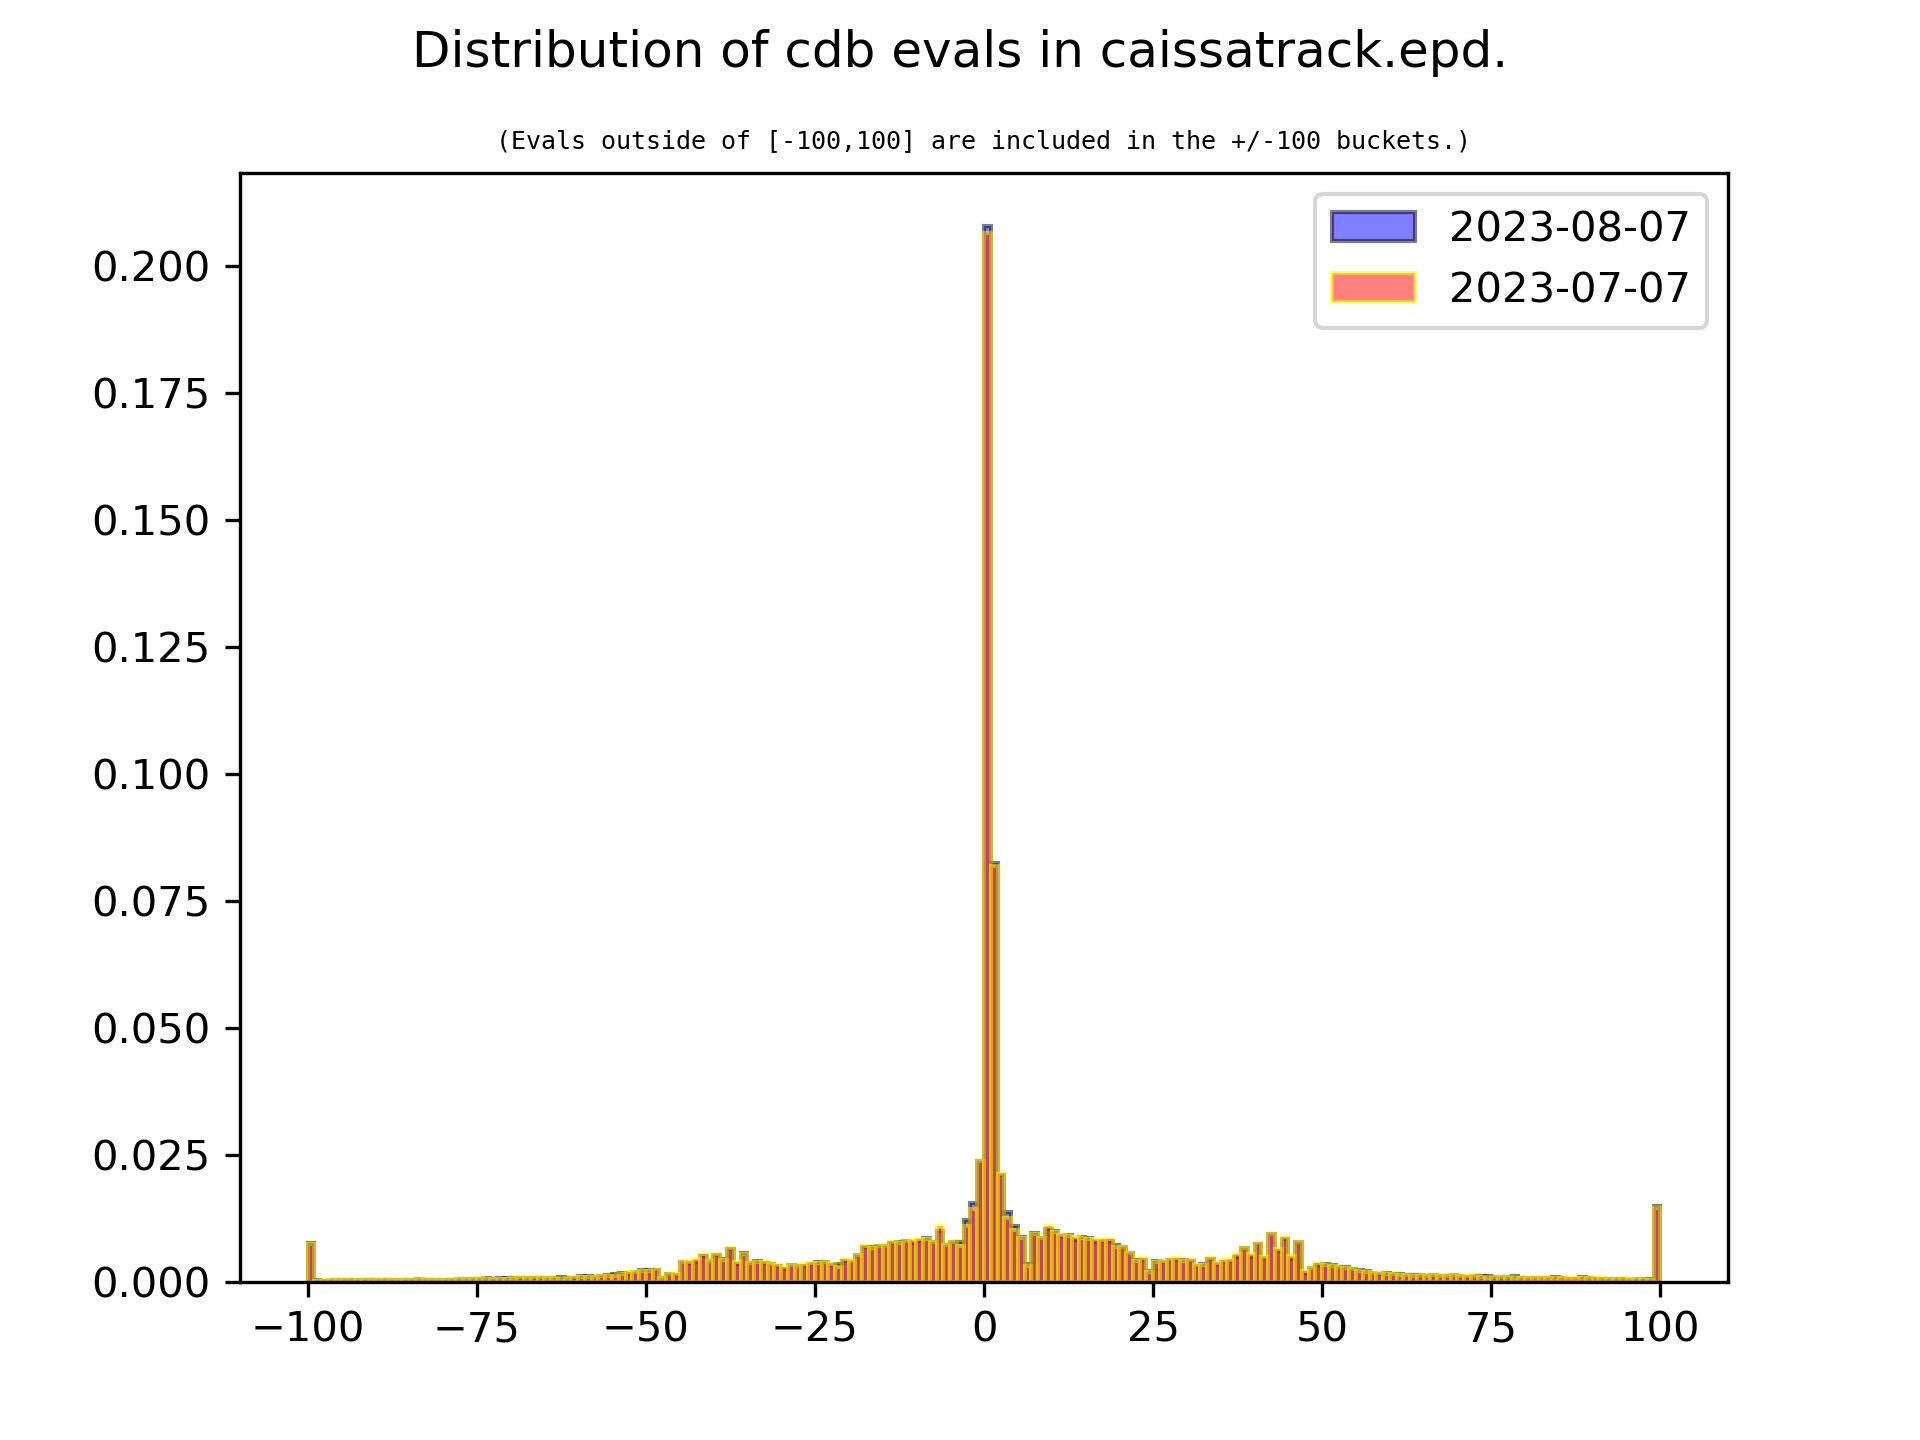
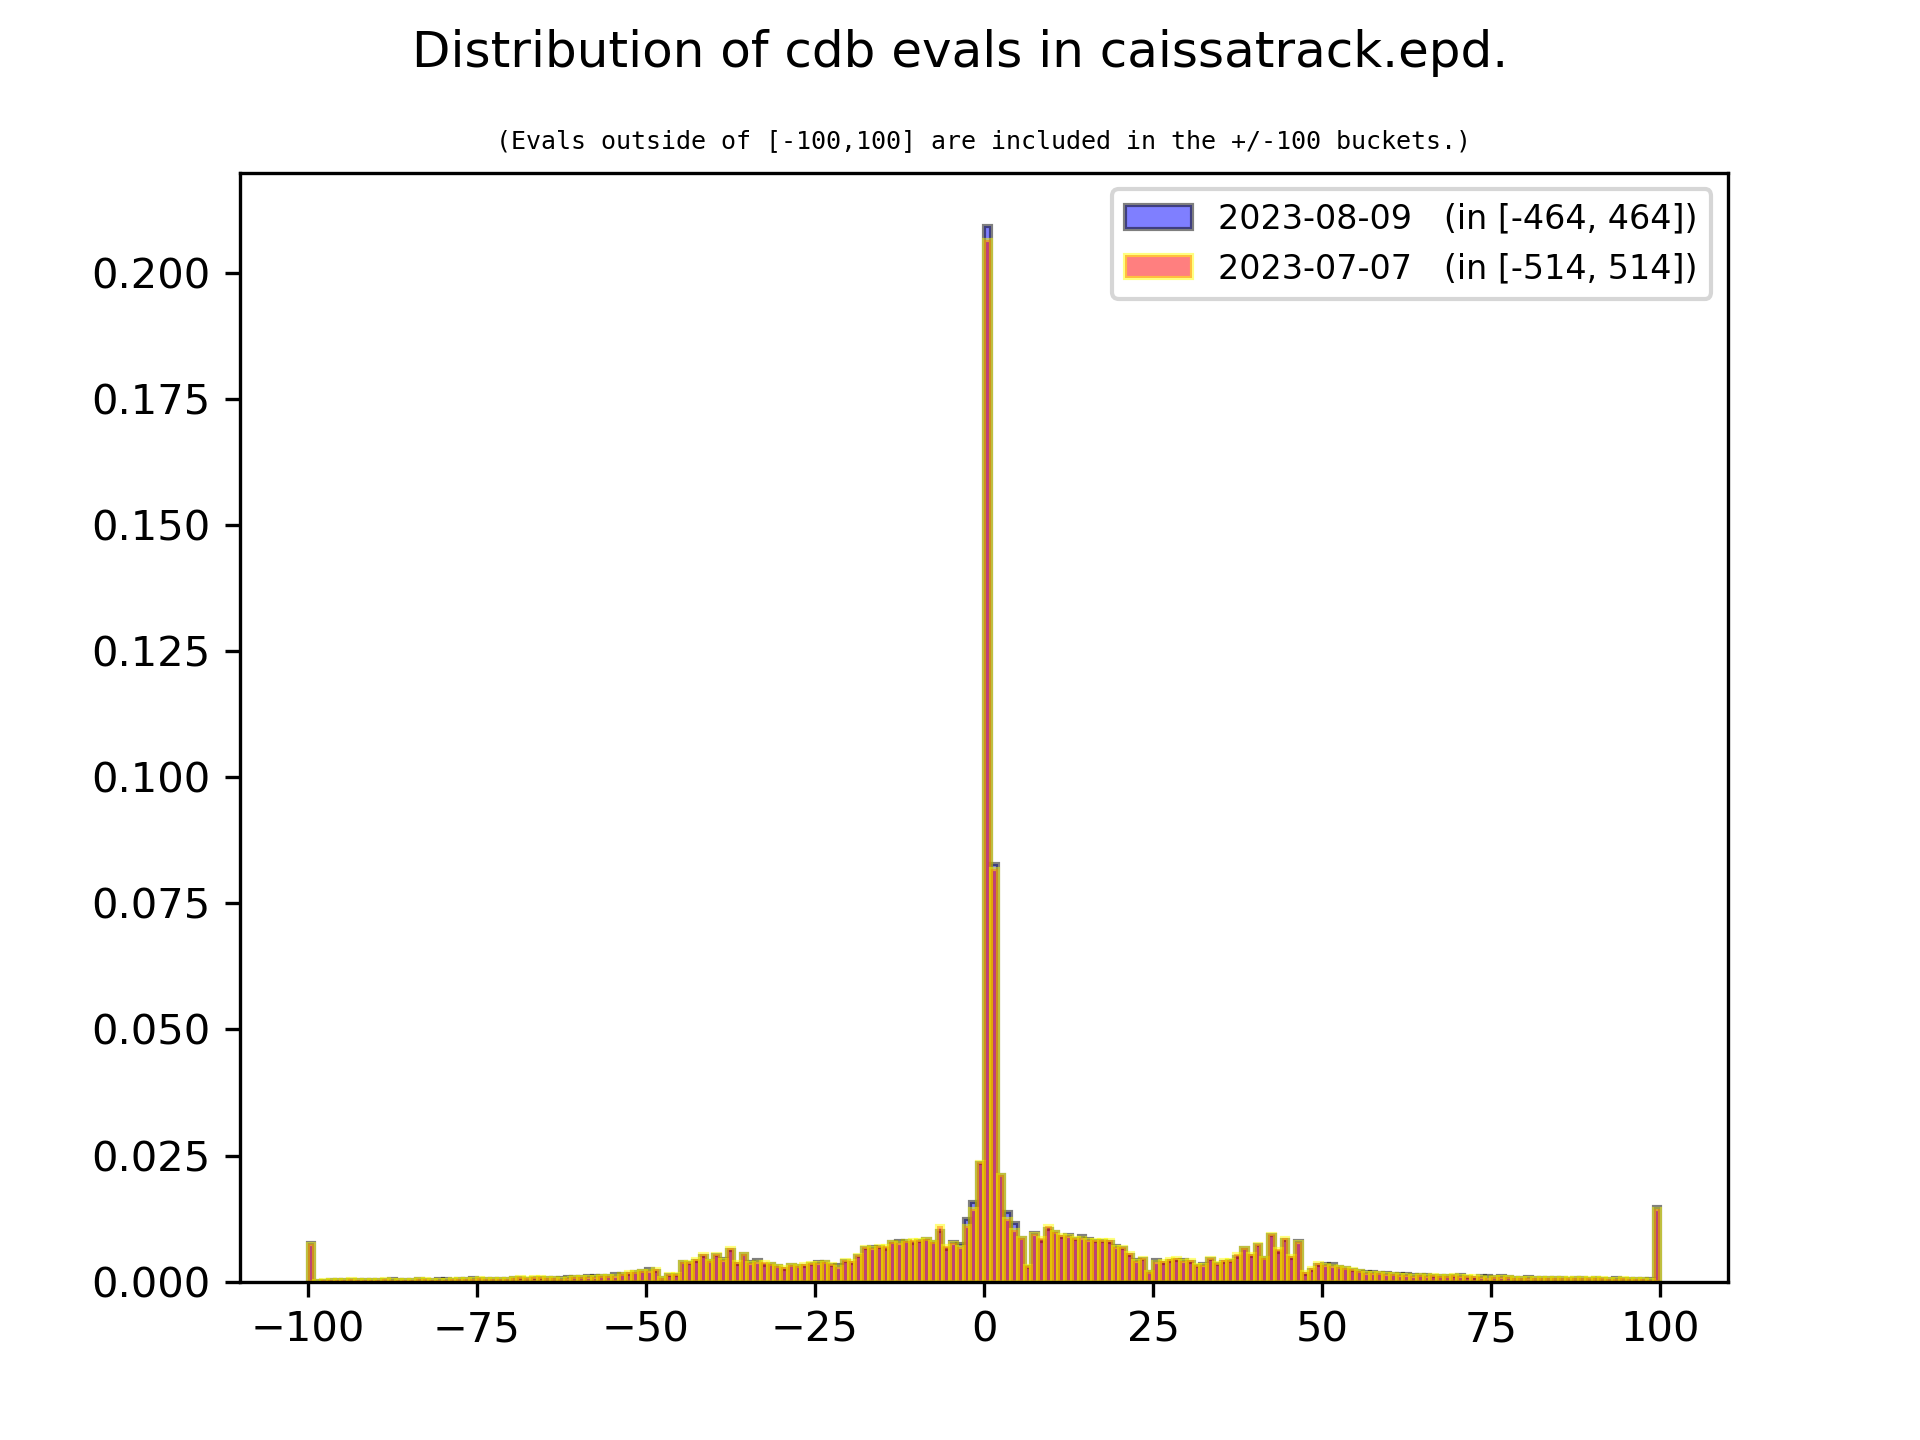
add data ranges to legend

diff --git a/plotdata.py b/plotdata.py
@@ -30,8 +30,12 @@ class matedata:
         dateOld, dateNew = str(self.date[0]), str(self.date[-1])
         if pv:
             dictOld, dictNew = self.depths[0], self.depths[-1]
+            rangeOld = min(dictOld.keys()), max(dictOld.keys())
+            rangeNew = min(dictNew.keys()), max(dictNew.keys())
         else:
             dictOld, dictNew = self.evals[0], self.evals[-1]
+            rangeOld = min(dictOld.keys()), max(dictOld.keys())
+            rangeNew = min(dictNew.keys()), max(dictNew.keys())
             cutOff = 100
             for d in [dictOld, dictNew]:
                 for key in [-cutOff, cutOff]:
@@ -60,7 +64,7 @@ class matedata:
             alpha=0.5,
             color="blue",
             edgecolor="black",
-            label=dateNew,
+            label=dateNew + f"   (in [{rangeNew[0]}, {rangeNew[1]}])",
         )
         listOld = [key for key, val in dictOld.items() for _ in range(val)]
         ax.hist(
@@ -71,9 +75,9 @@ class matedata:
             alpha=0.5,
             color="red",
             edgecolor="yellow",
-            label=dateOld,
+            label=dateOld + f"   (in [{rangeOld[0]}, {rangeOld[1]}])",
         )
-        ax.legend()
+        ax.legend(fontsize=8)
         fig.suptitle(
             f"Distribution of cdb {'depths' if pv else 'evals'} in {self.prefix}.epd."
         )
